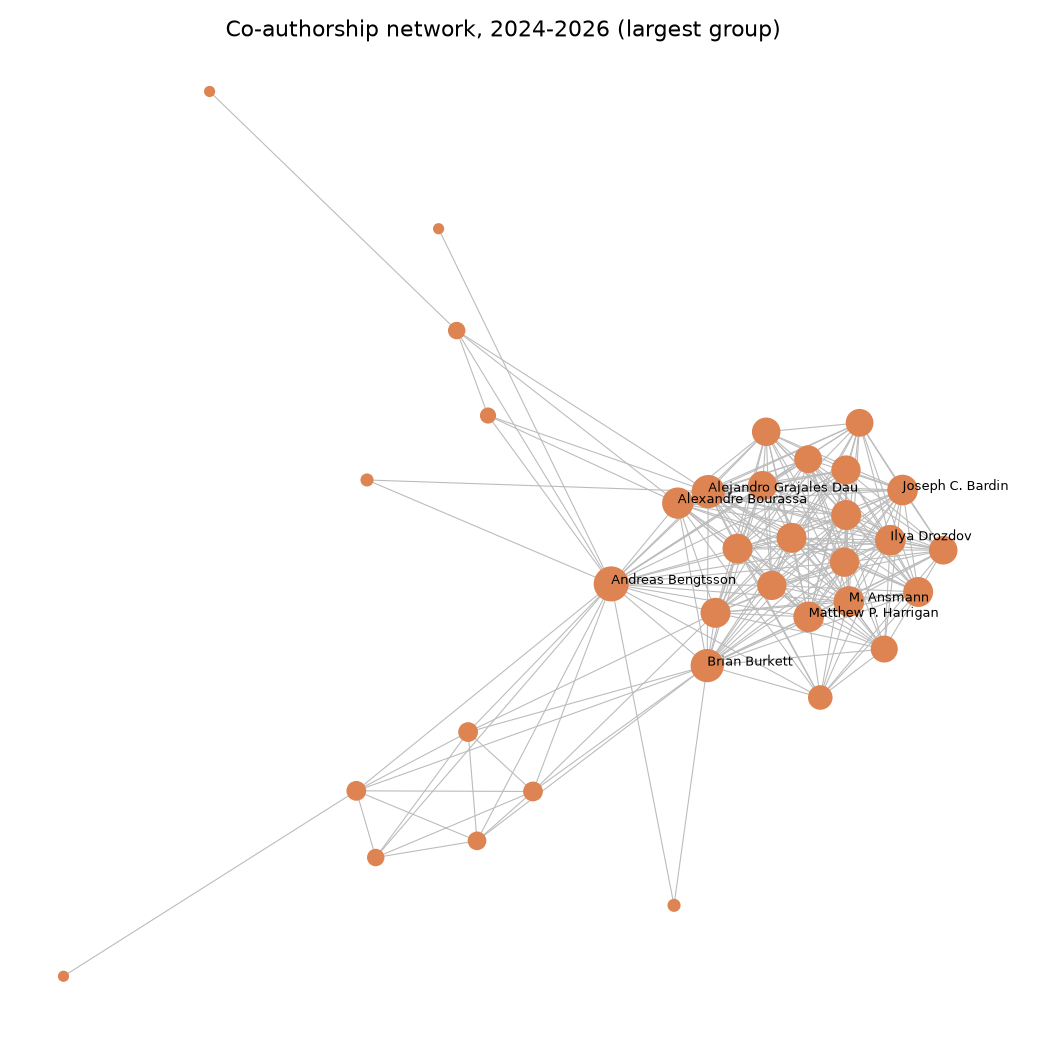
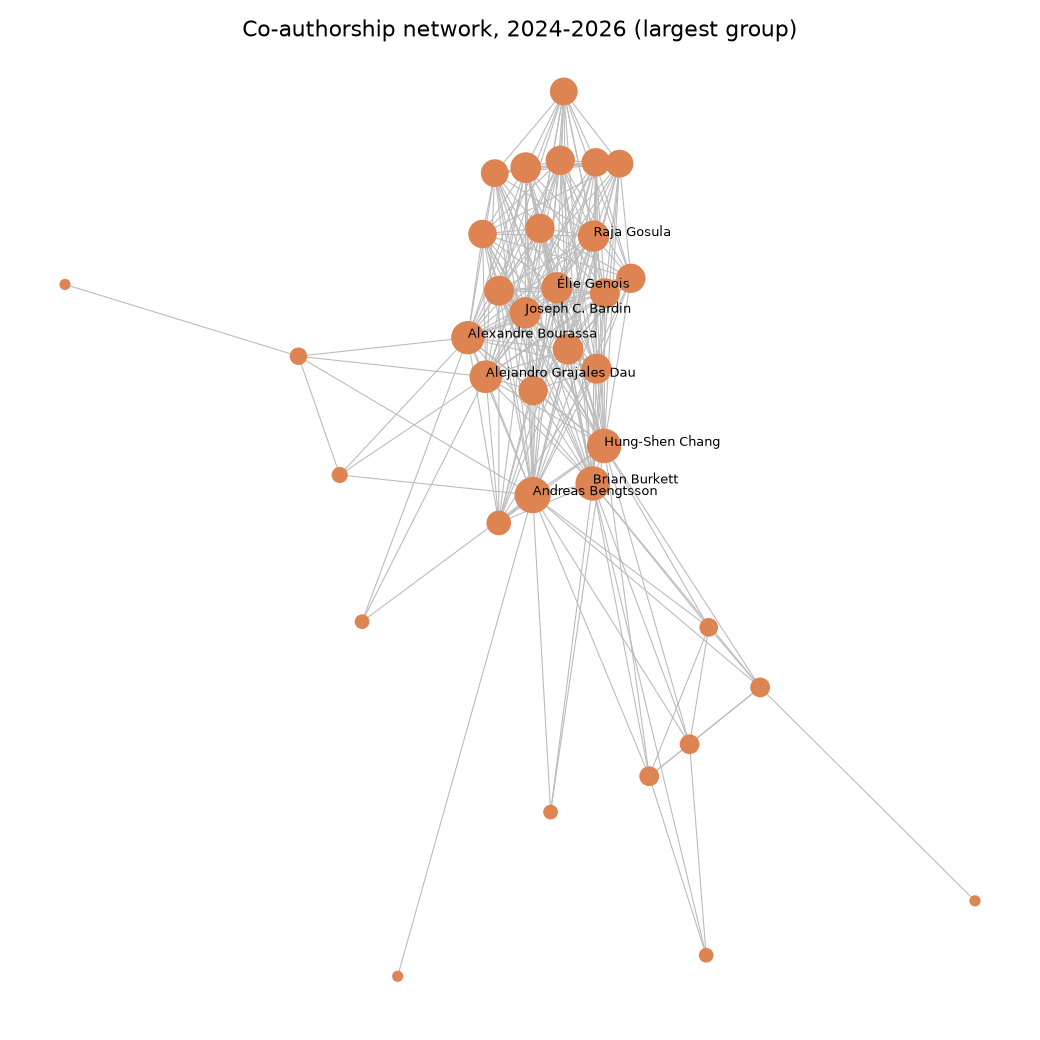
Weekly data snapshot: openalex (2026-09-15)

diff --git a/docs/LATEST.md b/docs/LATEST.md
@@ -1,6 +1,6 @@
 # Weekly snapshot
 
-_Generated 2026-09-15 18:35. Corpus: 12,453 papers, 51,529 authors,
+_Generated 2026-09-15 18:39. Corpus: 12,453 papers, 51,529 authors,
 1,112 topics, publication years 2023-2026._
 
 ![papers per year](charts/papers_per_year.png)
@@ -14,10 +14,10 @@ _Generated 2026-09-15 18:35. Corpus: 12,453 papers, 51,529 authors,
 | Energy Load and Power Forecasting | Solar Radiation and Photovoltaics | 2023 | 0.0225 | 2024 | 0.0244 | 0.0019 |
 | AI in cancer detection | Brain Tumor Detection and Classification | 2023 | 0.0122 | 2024 | 0.0138 | 0.0017 |
 | Artificial Intelligence in Healthcare and Education | Explainable Artificial Intelligence (XAI) | 2023 | 0.014 | 2024 | 0.0157 | 0.0017 |
-| AI in Service Interactions | Technology Adoption and User Behaviour | 2023 | 0.0112 | 2024 | 0.0129 | 0.0016 |
 | AI in Service Interactions | Online Learning and Analytics | 2023 | 0.0092 | 2024 | 0.0107 | 0.0016 |
+| AI in Service Interactions | Technology Adoption and User Behaviour | 2023 | 0.0112 | 2024 | 0.0129 | 0.0016 |
+| Energy Load and Power Forecasting | Photovoltaic System Optimization Techniques | Solar Radiation and Photovoltaics | 2023 | 0.0162 | 2024 | 0.0175 | 0.0013 |
 | AI in Service Interactions | Social Robot Interaction and HRI | 2023 | 0.0149 | 2024 | 0.0162 | 0.0013 |
-| Artificial Intelligence in Healthcare and Education | Machine Learning in Healthcare | Topic Modeling | 2023 | 0.005 | 2024 | 0.0063 | 0.0013 |
 
 ![lifecycles](charts/pattern_lifecycles.png)
 
@@ -52,16 +52,16 @@ _Generated 2026-09-15 18:35. Corpus: 12,453 papers, 51,529 authors,
 ## Collaboration network, 2024-2026
 | author | collaborators | joint_papers |
 |---|---|---|
-| Andreas Bengtsson | 27 | 115 |
-| Alejandro Grajales Dau | 24 | 98 |
-| Brian Burkett | 24 | 98 |
-| Alexandre Bourassa | 21 | 89 |
-| Ilya Drozdov | 20 | 80 |
-| Joseph C. Bardin | 20 | 80 |
-| M. Ansmann | 20 | 80 |
-| Matthew P. Harrigan | 20 | 80 |
-| Hung-Shen Chang | 19 | 78 |
-| Abraham Asfaw | 19 | 76 |
+| Andreas Bengtsson | 29 | 123 |
+| Brian Burkett | 26 | 106 |
+| Hung-Shen Chang | 26 | 106 |
+| Alexandre Bourassa | 24 | 101 |
+| Alejandro Grajales Dau | 23 | 94 |
+| Joseph C. Bardin | 21 | 84 |
+| Raja Gosula | 21 | 84 |
+| Élie Genois | 21 | 84 |
+| Agustín Di Paolo | 20 | 80 |
+| Michael Broughton | 20 | 80 |
 
 ![network](charts/coauthor_network.png)
 
